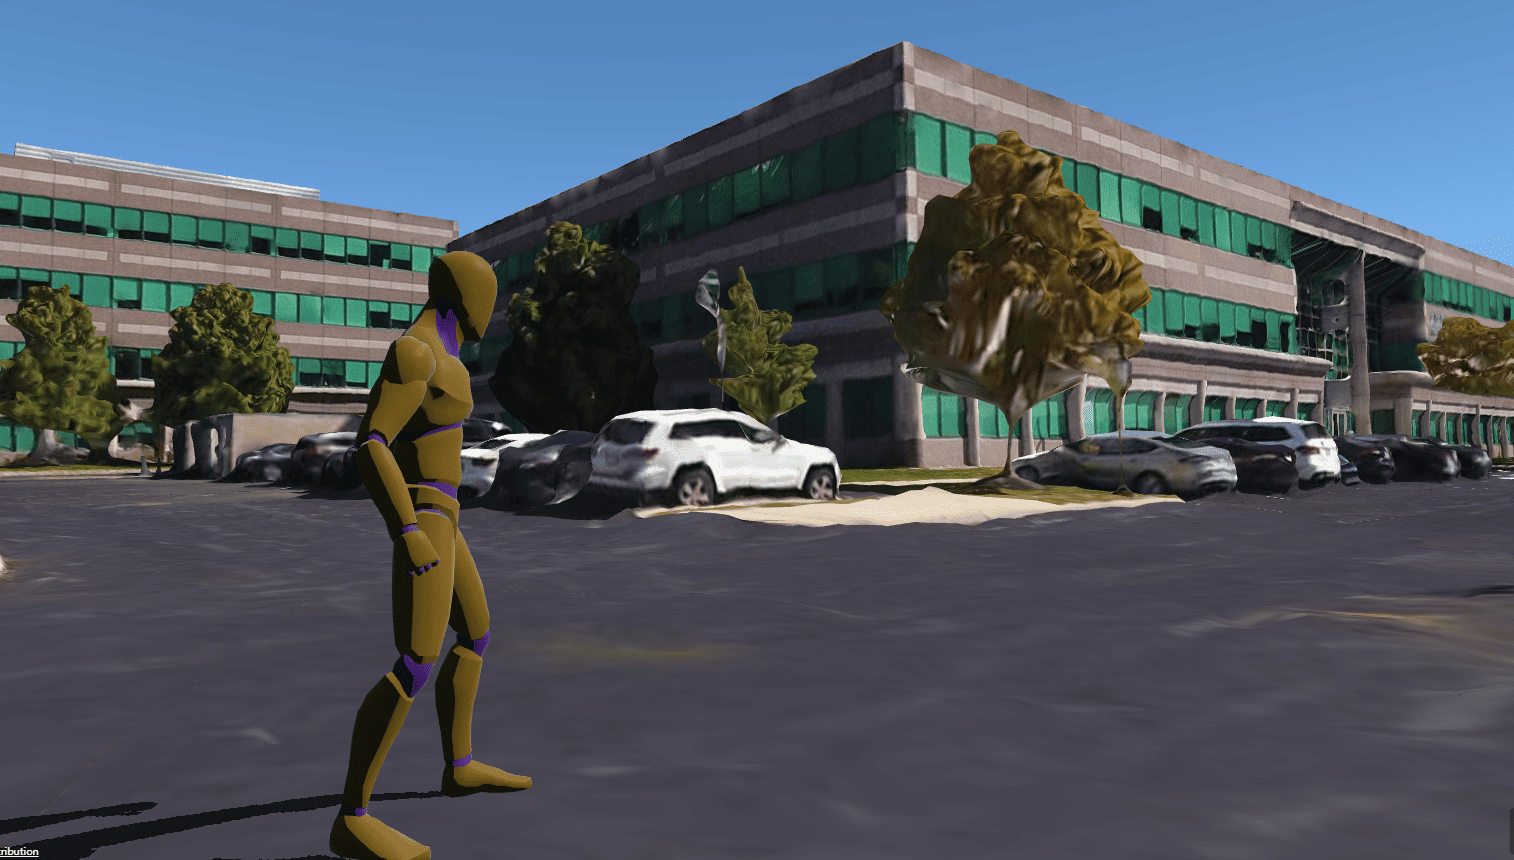
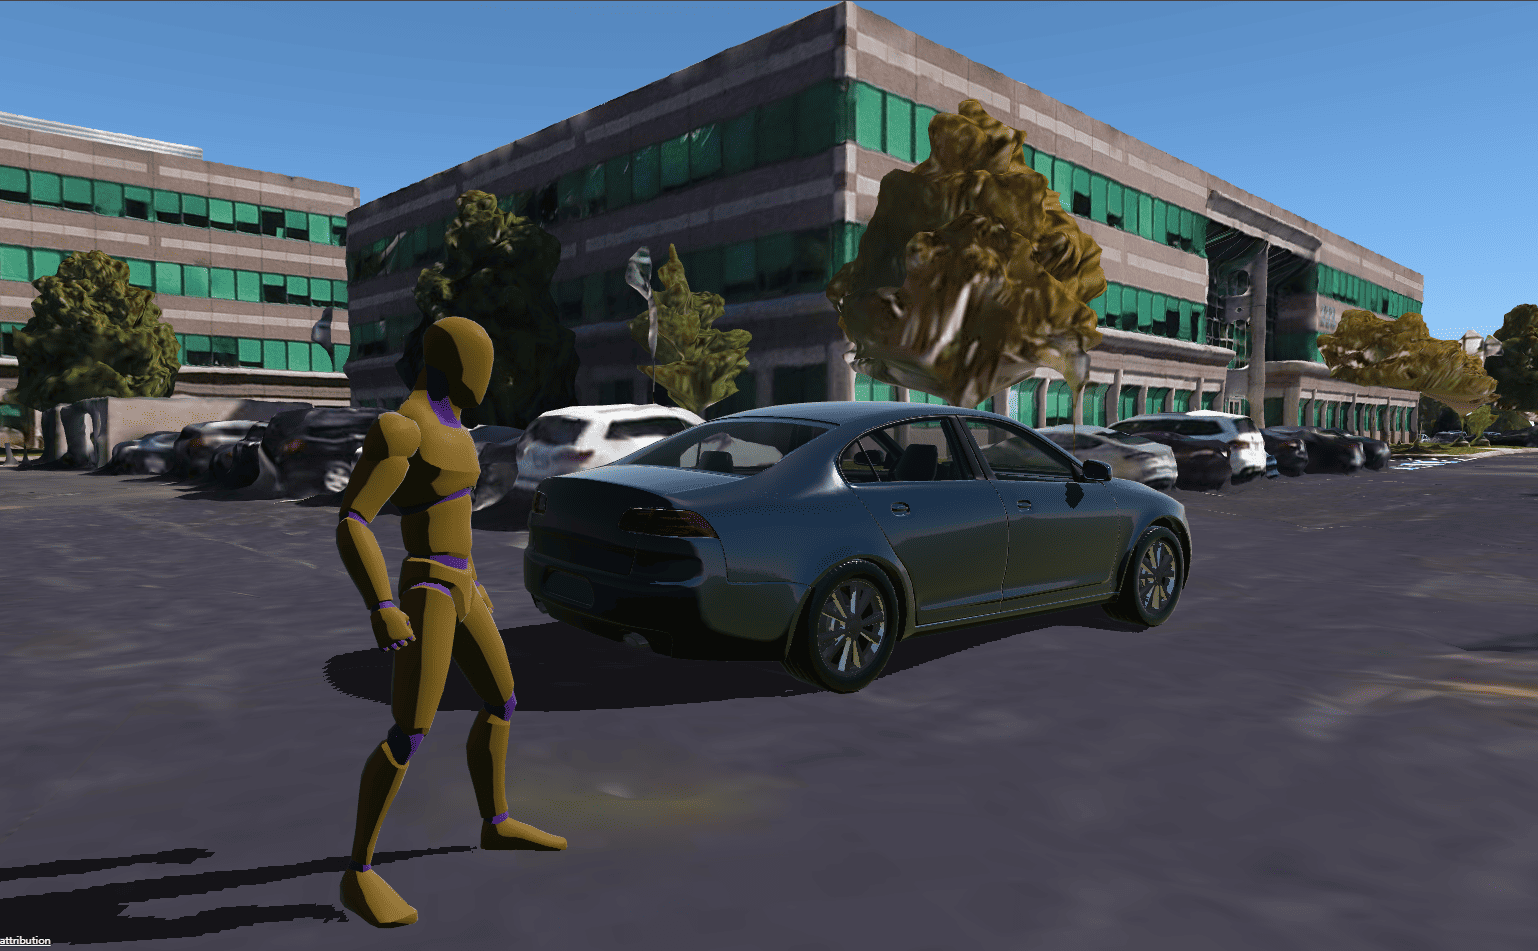
更新图片资源

diff --git a/example/3dtiles/index.ts b/example/3dtiles/index.ts
@@ -66,12 +66,12 @@ const params = {
     centerRaycast: false,
 };
 
-// 车辆配置（Generic Sedan Car by MMC Works, CC BY 4.0）
+// 车辆配置
 const VEHICLE_CONFIG = {
     url: `${import.meta.env.BASE_URL}glb/sedan.glb`,
     scale: 0.9,
     wheelsNames: ["Wheel_LF", "Wheel_RF", "Wheel_LR", "Wheel_RR"],
-    driverSeatPosition: new Cartesian3(-0.6, 0.25, 0.4),
+    driverSeatPosition: new Cartesian3(-0.6, 0.35, 0.4),
     driverSeatRotation: 0,
     chassisRatio: 0.35,
     suspensionRestLengthRatio: 0.2,

diff --git a/example/3dtiles/index.html b/example/3dtiles/index.html
@@ -16,6 +16,10 @@
                 Universal Animation Library
             </a>
         </span>
+        <span>
+            Vehicle model:
+            <a href="https://sketchfab.com/3d-models/generic-sedan-car-58c33766470d46e7b2aed542650494e5" target="_blank" rel="noopener noreferrer">Generic Sedan Car</a>
+        </span>
         <span class="credit-row">
             3DTiles Collider:
             <a href="https://github.com/hh-hang/collider-forge" target="_blank" rel="noopener noreferrer">

diff --git a/README_En.md b/README_En.md
@@ -13,7 +13,7 @@ An out-of-the-box player controller for CesiumJS, providing character capsule co
 
 # Example
 
-[![Online Demo](https://github.com/hh-hang/cesium-player-controller/blob/main/example/public/imgs/3dtiles.png)](https://hh-hang.github.io/cesium-player-controller/index.html)
+[![Online Demo](https://github.com/hh-hang/cesium-player-controller/blob/main/example/public/imgs/preview.png)](https://hh-hang.github.io/cesium-player-controller/index.html)
 
 # Installation
 

diff --git a/README.md b/README.md
@@ -13,7 +13,7 @@
 
 # 示例
 
-[![在线示例](https://github.com/hh-hang/cesium-player-controller/blob/main/example/public/imgs/3dtiles.png)](https://hh-hang.github.io/cesium-player-controller/index.html)
+[![在线示例](https://github.com/hh-hang/cesium-player-controller/blob/main/example/public/imgs/preview.png)](https://hh-hang.github.io/cesium-player-controller/index.html)
 
 # 安装
 
